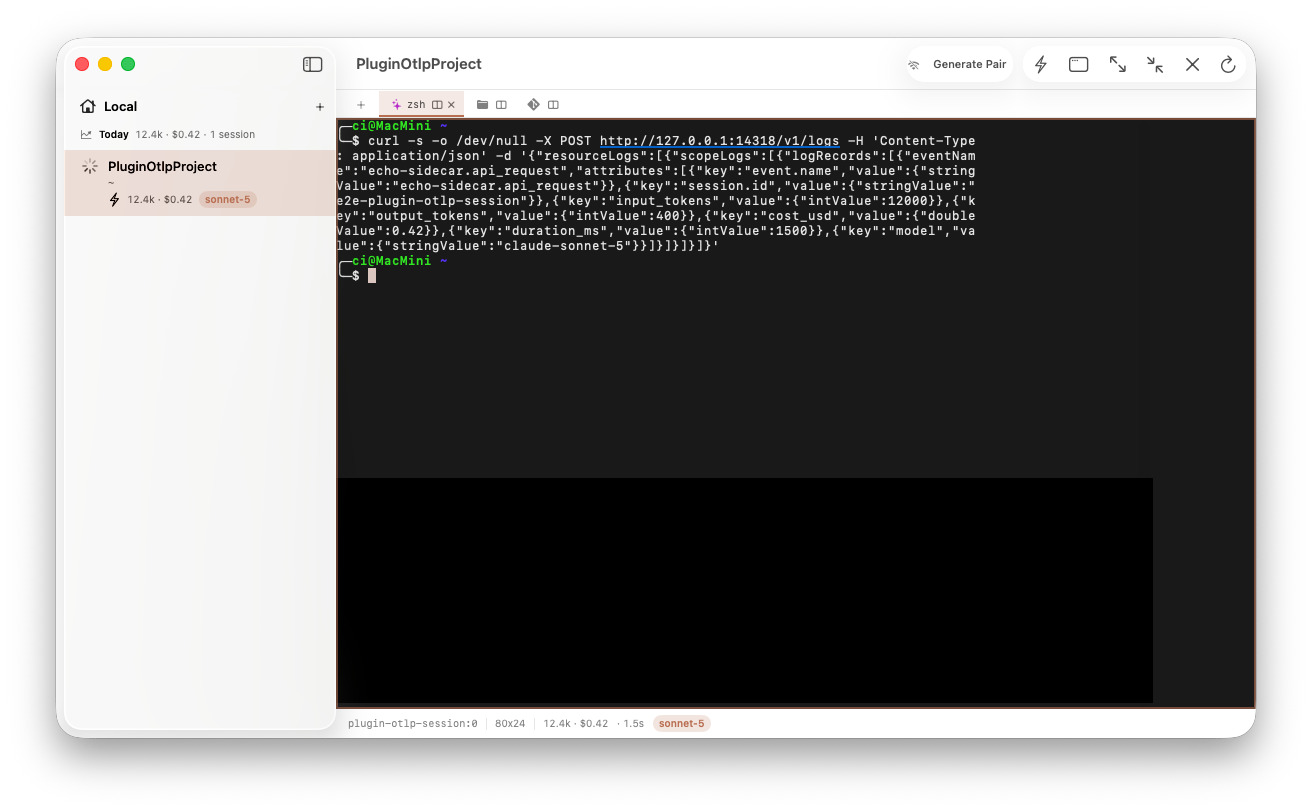
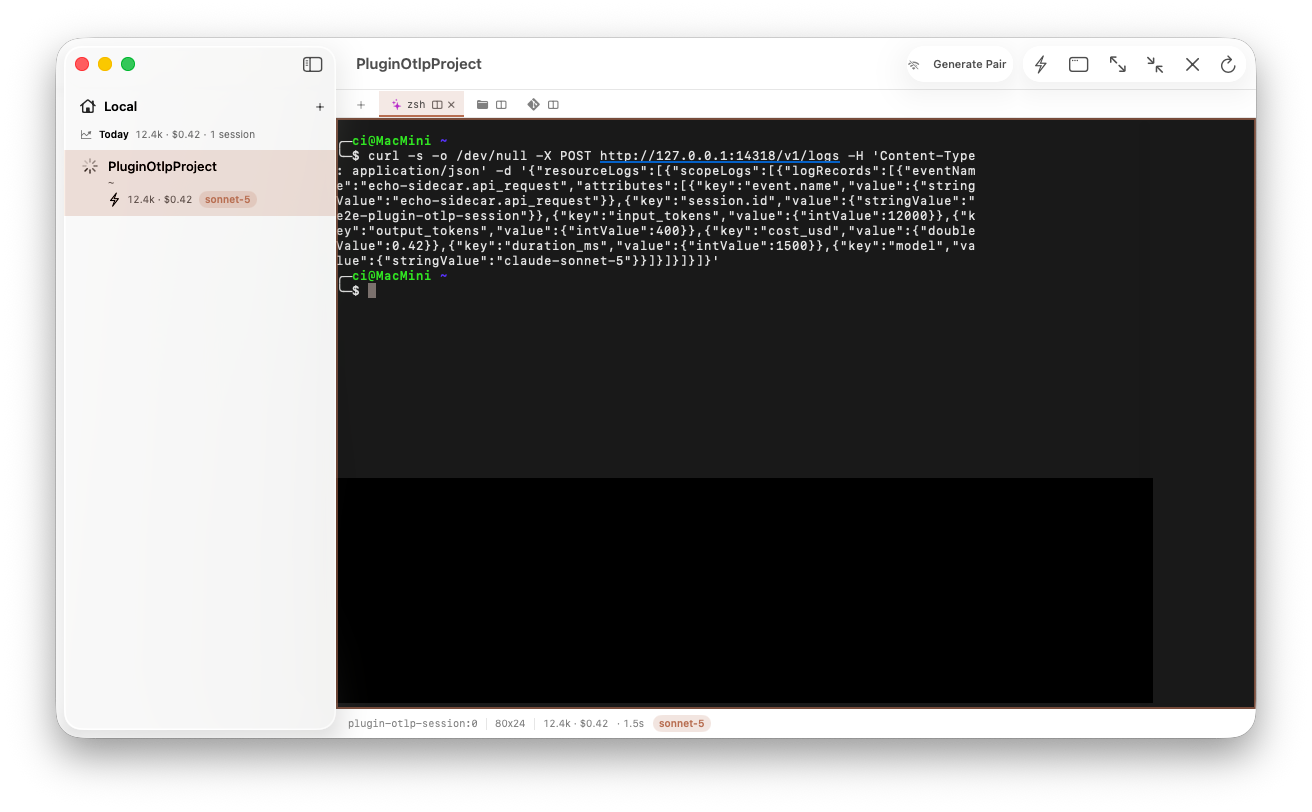
e2e: stabilize Browser Tab link advance + Plugin OTLP meter shot
Two flaky scenarios surfaced on this branch (both unrelated to the
video-cleanup change):

- Browser Tab From Terminal Link: a dropped `Space` keystroke could leave
  link_block.py painted on the prior link. It advances on *any* byte read, so
  a naive resend risks overshooting. Add the viewer-side "settle on the
  current link, then advance" guard to the six host-side advance phases and
  bump their post-advance waits 5s -> 15s, mirroring the proven remote-leg
  pattern so a keystroke sent into a mid-repaint pane can't strand the script.

- Plugin OTLP Telemetry Render: the terminal mirrored into the meter shot by
  commit e0084157 exhibits ~2.68% sub-pixel glyph-rendering jitter run-to-run
  (verified as an in-place difference, not a row shift -- neither a fresh
  baseline nor a prompt-ready wait removes it). The meter's correctness is
  already asserted functionally ($0.42 + sonnet-5 via AXValue), so widen that
  one shot's tolerance 2.0 -> 4.0% and refresh the baseline on the CI machine.

Verified locally on the CI Mac: OTLP 3x green at 4% tolerance; hardened
Browser Tab green (302 steps, all 26 screenshots matched).

Changed region(s): [[0.25, 0.1539, 0.75, 0.3695]]

diff --git a/ClaudeSpyPackage/Sources/ClaudeSpyE2ELib/Scenarios/BrowserTabFromTerminalLinkScenario.swift b/ClaudeSpyPackage/Sources/ClaudeSpyE2ELib/Scenarios/BrowserTabFromTerminalLinkScenario.swift
@@ -190,10 +190,25 @@ public enum BrowserTabFromTerminalLinkScenario {
         TestStep.log("Phase 3: Click link 2; toggle 'Don't ask again' + In App → setting flips to .alwaysInApp")
         // Switch back to the terminal window-tab so the link is clickable.
         TestStep.macClickButton(titled: "weblinks:0")
+        // Settle on the current link (1): confirm the terminal is displayed and
+        // idle before sending the advance key. link_block.py advances on *any*
+        // byte read, so a keystroke dropped while the pane is mid-repaint (after a
+        // window refocus, or the Panes window auto-resizing) leaves the script
+        // stuck on the prior link — the block stays painted with `OPEN-LINK-(n-1)`
+        // and the next `macWaitForElementQuery(OPEN-LINK-n)` times out fatally.
+        // Waiting for the current link + a short beat lets the pane quiesce before
+        // the advance keystroke is sent. This is the host-side mirror of the
+        // viewer's Phase-16 "settle on the current link, then advance" guard, and
+        // the post-advance waits use the same generous 15s timeout.
+        TestStep.macWaitForElementQuery(
+            .allOf([.identifier("terminal-%0"), .valueContains("OPEN-LINK-1")]),
+            timeout: 15
+        )
+        TestStep.wait(seconds: 2)
         TestStep.tmuxSendKeys(target: "weblinks:0", keys: "Space") // advance link_block.py to link 2
         TestStep.macWaitForElementQuery(
             .allOf([.identifier("terminal-%0"), .valueContains("OPEN-LINK-2")]),
-            timeout: 5
+            timeout: 15
         )
         TestStep.macClickAtPoint(x: linkClickX, y: linkClickY)
         TestStep.macWaitForElement(titled: "Open this link?", timeout: 5)
@@ -221,10 +236,16 @@ public enum BrowserTabFromTerminalLinkScenario {
         TestStep.log("Phase 5: With .alwaysInApp, clicking link 3 opens directly (no sheet)")
         TestStep.macClickButton(titled: "weblinks")
         TestStep.macClickButton(titled: "weblinks:0")
+        // Settle on the current link (2) before advancing — see the Phase 3 rationale.
+        TestStep.macWaitForElementQuery(
+            .allOf([.identifier("terminal-%0"), .valueContains("OPEN-LINK-2")]),
+            timeout: 15
+        )
+        TestStep.wait(seconds: 2)
         TestStep.tmuxSendKeys(target: "weblinks:0", keys: "Space") // advance link_block.py to link 3
         TestStep.macWaitForElementQuery(
             .allOf([.identifier("terminal-%0"), .valueContains("OPEN-LINK-3")]),
-            timeout: 5
+            timeout: 15
         )
         TestStep.macClickAtPoint(x: linkClickX, y: linkClickY)
         // Confirmation sheet must NOT appear.
@@ -256,10 +277,16 @@ public enum BrowserTabFromTerminalLinkScenario {
         TestStep.log("Phase 7: With .alwaysInDefaultBrowser, clicking link 4 routes via URLOpener — no new in-app tab")
         TestStep.macClickButton(titled: "weblinks")
         TestStep.macClickButton(titled: "weblinks:0")
+        // Settle on the current link (3) before advancing — see the Phase 3 rationale.
+        TestStep.macWaitForElementQuery(
+            .allOf([.identifier("terminal-%0"), .valueContains("OPEN-LINK-3")]),
+            timeout: 15
+        )
+        TestStep.wait(seconds: 2)
         TestStep.tmuxSendKeys(target: "weblinks:0", keys: "Space") // advance link_block.py to link 4
         TestStep.macWaitForElementQuery(
             .allOf([.identifier("terminal-%0"), .valueContains("OPEN-LINK-4")]),
-            timeout: 5
+            timeout: 15
         )
         TestStep.macClickAtPoint(x: linkClickX, y: linkClickY)
         // Neither the confirmation sheet nor a new in-app tab should appear.
@@ -306,10 +333,16 @@ public enum BrowserTabFromTerminalLinkScenario {
         TestStep.log("Phase 9: With global .ask + no domain rule, clicking link 5 shows the sheet")
         TestStep.macClickButton(titled: "weblinks")
         TestStep.macClickButton(titled: "weblinks:0")
+        // Settle on the current link (4) before advancing — see the Phase 3 rationale.
+        TestStep.macWaitForElementQuery(
+            .allOf([.identifier("terminal-%0"), .valueContains("OPEN-LINK-4")]),
+            timeout: 15
+        )
+        TestStep.wait(seconds: 2)
         TestStep.tmuxSendKeys(target: "weblinks:0", keys: "Space") // advance link_block.py to link 5
         TestStep.macWaitForElementQuery(
             .allOf([.identifier("terminal-%0"), .valueContains("OPEN-LINK-5")]),
-            timeout: 5
+            timeout: 15
         )
         TestStep.macClickAtPoint(x: linkClickX, y: linkClickY)
         TestStep.macWaitForElement(titled: "Open this link?", timeout: 5)
@@ -342,10 +375,16 @@ public enum BrowserTabFromTerminalLinkScenario {
         TestStep.log("Phase 12: Click link 6 → opens directly via the per-domain rule (no sheet)")
         TestStep.macClickButton(titled: "weblinks")
         TestStep.macClickButton(titled: "weblinks:0")
+        // Settle on the current link (5) before advancing — see the Phase 3 rationale.
+        TestStep.macWaitForElementQuery(
+            .allOf([.identifier("terminal-%0"), .valueContains("OPEN-LINK-5")]),
+            timeout: 15
+        )
+        TestStep.wait(seconds: 2)
         TestStep.tmuxSendKeys(target: "weblinks:0", keys: "Space") // advance link_block.py to link 6
         TestStep.macWaitForElementQuery(
             .allOf([.identifier("terminal-%0"), .valueContains("OPEN-LINK-6")]),
-            timeout: 5
+            timeout: 15
         )
         TestStep.macClickAtPoint(x: linkClickX, y: linkClickY)
         // Confirmation sheet must NOT appear — the per-domain rule short-circuits .ask.
@@ -370,10 +409,16 @@ public enum BrowserTabFromTerminalLinkScenario {
         TestStep.log("Phase 14: With the rule gone (global .ask), clicking link 7 shows the sheet again")
         TestStep.macClickButton(titled: "weblinks")
         TestStep.macClickButton(titled: "weblinks:0")
+        // Settle on the current link (6) before advancing — see the Phase 3 rationale.
+        TestStep.macWaitForElementQuery(
+            .allOf([.identifier("terminal-%0"), .valueContains("OPEN-LINK-6")]),
+            timeout: 15
+        )
+        TestStep.wait(seconds: 2)
         TestStep.tmuxSendKeys(target: "weblinks:0", keys: "Space") // advance link_block.py to link 7
         TestStep.macWaitForElementQuery(
             .allOf([.identifier("terminal-%0"), .valueContains("OPEN-LINK-7")]),
-            timeout: 5
+            timeout: 15
         )
         TestStep.macClickAtPoint(x: linkClickX, y: linkClickY)
         TestStep.macWaitForElement(titled: "Open this link?", timeout: 5)

diff --git a/ClaudeSpyPackage/Sources/ClaudeSpyE2ELib/Scenarios/PluginOTLPTelemetryScenario.swift b/ClaudeSpyPackage/Sources/ClaudeSpyE2ELib/Scenarios/PluginOTLPTelemetryScenario.swift
@@ -83,6 +83,15 @@ public enum PluginOTLPTelemetryScenario {
         TestStep.macWaitForElement(titled: "PluginOtlpProject", timeout: 10)
         TestStep.macClickButton(titled: "PluginOtlpProject")
         TestStep.wait(seconds: 3)
-        TestStep.macScreenshot(label: "mac-plugin-otlp-meter")
+        // The mirrored terminal in the main pane exhibits ~2.68% sub-pixel
+        // glyph-rendering jitter run-to-run (font hinting/anti-aliasing between two
+        // stable render states — verified as an in-place difference, not a row
+        // shift, so neither a fresh baseline nor a prompt-ready wait removes it).
+        // The meter's correctness is asserted functionally above (`$0.42` +
+        // `sonnet-5` via AXValue), so this shot only needs to guard against gross
+        // visual regressions; widen the tolerance to 4% to clear the sub-pixel
+        // jitter while still failing on a missing meter or wrong content (which
+        // diff far more than 4%).
+        TestStep.macScreenshot(label: "mac-plugin-otlp-meter", tolerance: 4)
     }
 }